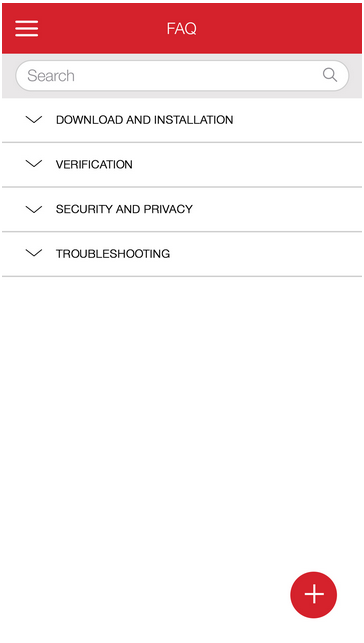
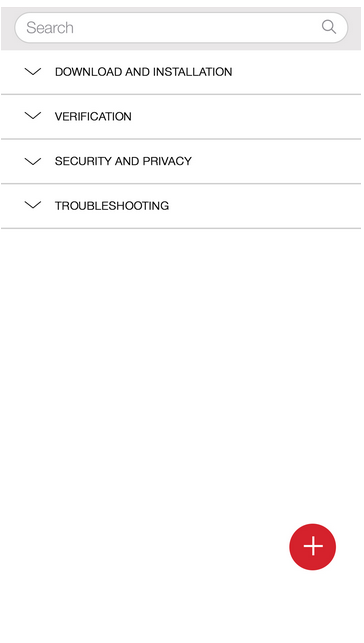
patch out header + snap of the faq

Changed region(s): [[0.0, 0.0, 0.9973, 0.3421], [0.7857, 0.8087, 0.9368, 0.9642], [0.1511, 0.3733, 0.4835, 0.4044]]

diff --git a/LostAndFound/www/faq.html b/LostAndFound/www/faq.html
@@ -24,8 +24,8 @@
 <head>
     <link rel="stylesheet" type="text/css" href="css/bootstrap.min.css" />
     <link rel="stylesheet" type="text/css" href="css/base.css" />
-    <link rel="stylesheet" type="text/css" href="css/sidebar.css" />
     <link rel="stylesheet" type="text/css" href="css/index.css" />
+    <link rel="stylesheet" type="text/css" href="css/sidebar.css" />
     <link rel="stylesheet" type="text/css" href="css/faq.css" />
     <title>Lost and Found</title>
 </head>
@@ -33,9 +33,15 @@
 <body class="black-bg loginBg" ng-app="BaseApp" ng-controller="FAQPageCtrl">
     <div class="app">
         <div class="wrapper">
-            <div ng-include="'templates/sidebar.html'"></div>
-            <div id="content" ng-include="'templates/header.html'"></div>
-
+            <div id="faq__sidebar" ng-include="'templates/sidebar.html'"></div>
+            <div class="wrapper_main_container">
+                <div id="content" ng-include="'templates/header.html'"></div>
+                <div id="faq__container">
+                    <div id="faq__container_left"></div>
+                    <div id="faq__container_right"></div>
+                </div>
+                
+            </div>
         </div>
 
 

diff --git a/LostAndFound/www/css/faq.css b/LostAndFound/www/css/faq.css
@@ -1,1 +1,38 @@
-
+.wrapper_main_container {
+    display: table;
+    width: 100%;
+    height: 500px; /* For at least Firefox */
+}
+
+
+
+#faq__container {
+    display: flex;
+    width: 100%;
+    height: 600px;
+    align-content: stretch;
+    margin-top: -20px;
+    background: url(../img/faq_mid.png) repeat;
+    background-position: left top;
+    background-size: auto auto;
+    background-color: green;
+}
+#faq__container_left {
+    width: 270px;
+    height: 350px;
+    background: url(../img/faq_left.png) no-repeat;
+    background-position: left top;
+    background-size: contain contain;
+    background-color: red;
+    float: left;
+}
+
+#faq__container_right {
+    width: 200px;
+    height: 570px;
+    background: url(../img/faq_right.png) no-repeat;
+    background-position: left top;
+    background-size: contain contain;
+    background-color: black;
+    float: right;
+}

diff --git a/LostAndFound/www/templates/header.html b/LostAndFound/www/templates/header.html
@@ -4,10 +4,9 @@
         <div class="navbar-header">
             <a href="#" class="navbar-brand" onclick="$('#sidebar').toggleClass('hidden');">
                 <span class="glyphicon glyphicon-menu-hamburger"></span>
-                
             </a>
-            <p class="navbar-text navbar-center" onclick="$('#sidebar').toggleClass('hidden');">Lost & Found</p>
+            <p class="navbar-text navbar-center" onclick="$('#sidebar').toggleClass('hidden');">{{ag_header.title}}</p>
         </div>
     </div>
-   
+
 </nav>

diff --git a/LostAndFound/www/js/faq.js b/LostAndFound/www/js/faq.js
@@ -2,9 +2,14 @@ var BaseApp = angular.module('BaseApp', []);
 
 BaseApp.controller('FAQPageCtrl', function ($scope) {
     // Initial value
-    $scope.ag_activation_page = {
-        code: "PLEASE ENTER ACTIVATION CODE"
+    $scope.ag_header = {
+        title: "FAQ"
     };
+    $scope.ag_faq = {
+        
+    };
+
+
     
 });
 

diff --git a/LostAndFound/www/css/sidebar.css b/LostAndFound/www/css/sidebar.css
@@ -108,7 +108,7 @@ a.article, a.article:hover {
 ----------------------------------------------------- */
 #content {
     padding: 0px;
-    min-height: 100vh;
+    /*min-height: 100vh;*/
     transition: all 0.3s;
     width: 100%;
 }

diff --git a/LostAndFound/www/js/visitor.js b/LostAndFound/www/js/visitor.js
@@ -5,7 +5,10 @@
 //    };
 //});
 BaseApp.controller('VisitorPageCtrl', function ($scope) {
-    
+    // Initial value
+    $scope.ag_header = {
+        title: "Lost & Found"
+    };
 });
 var app = {
     // Application Constructor
